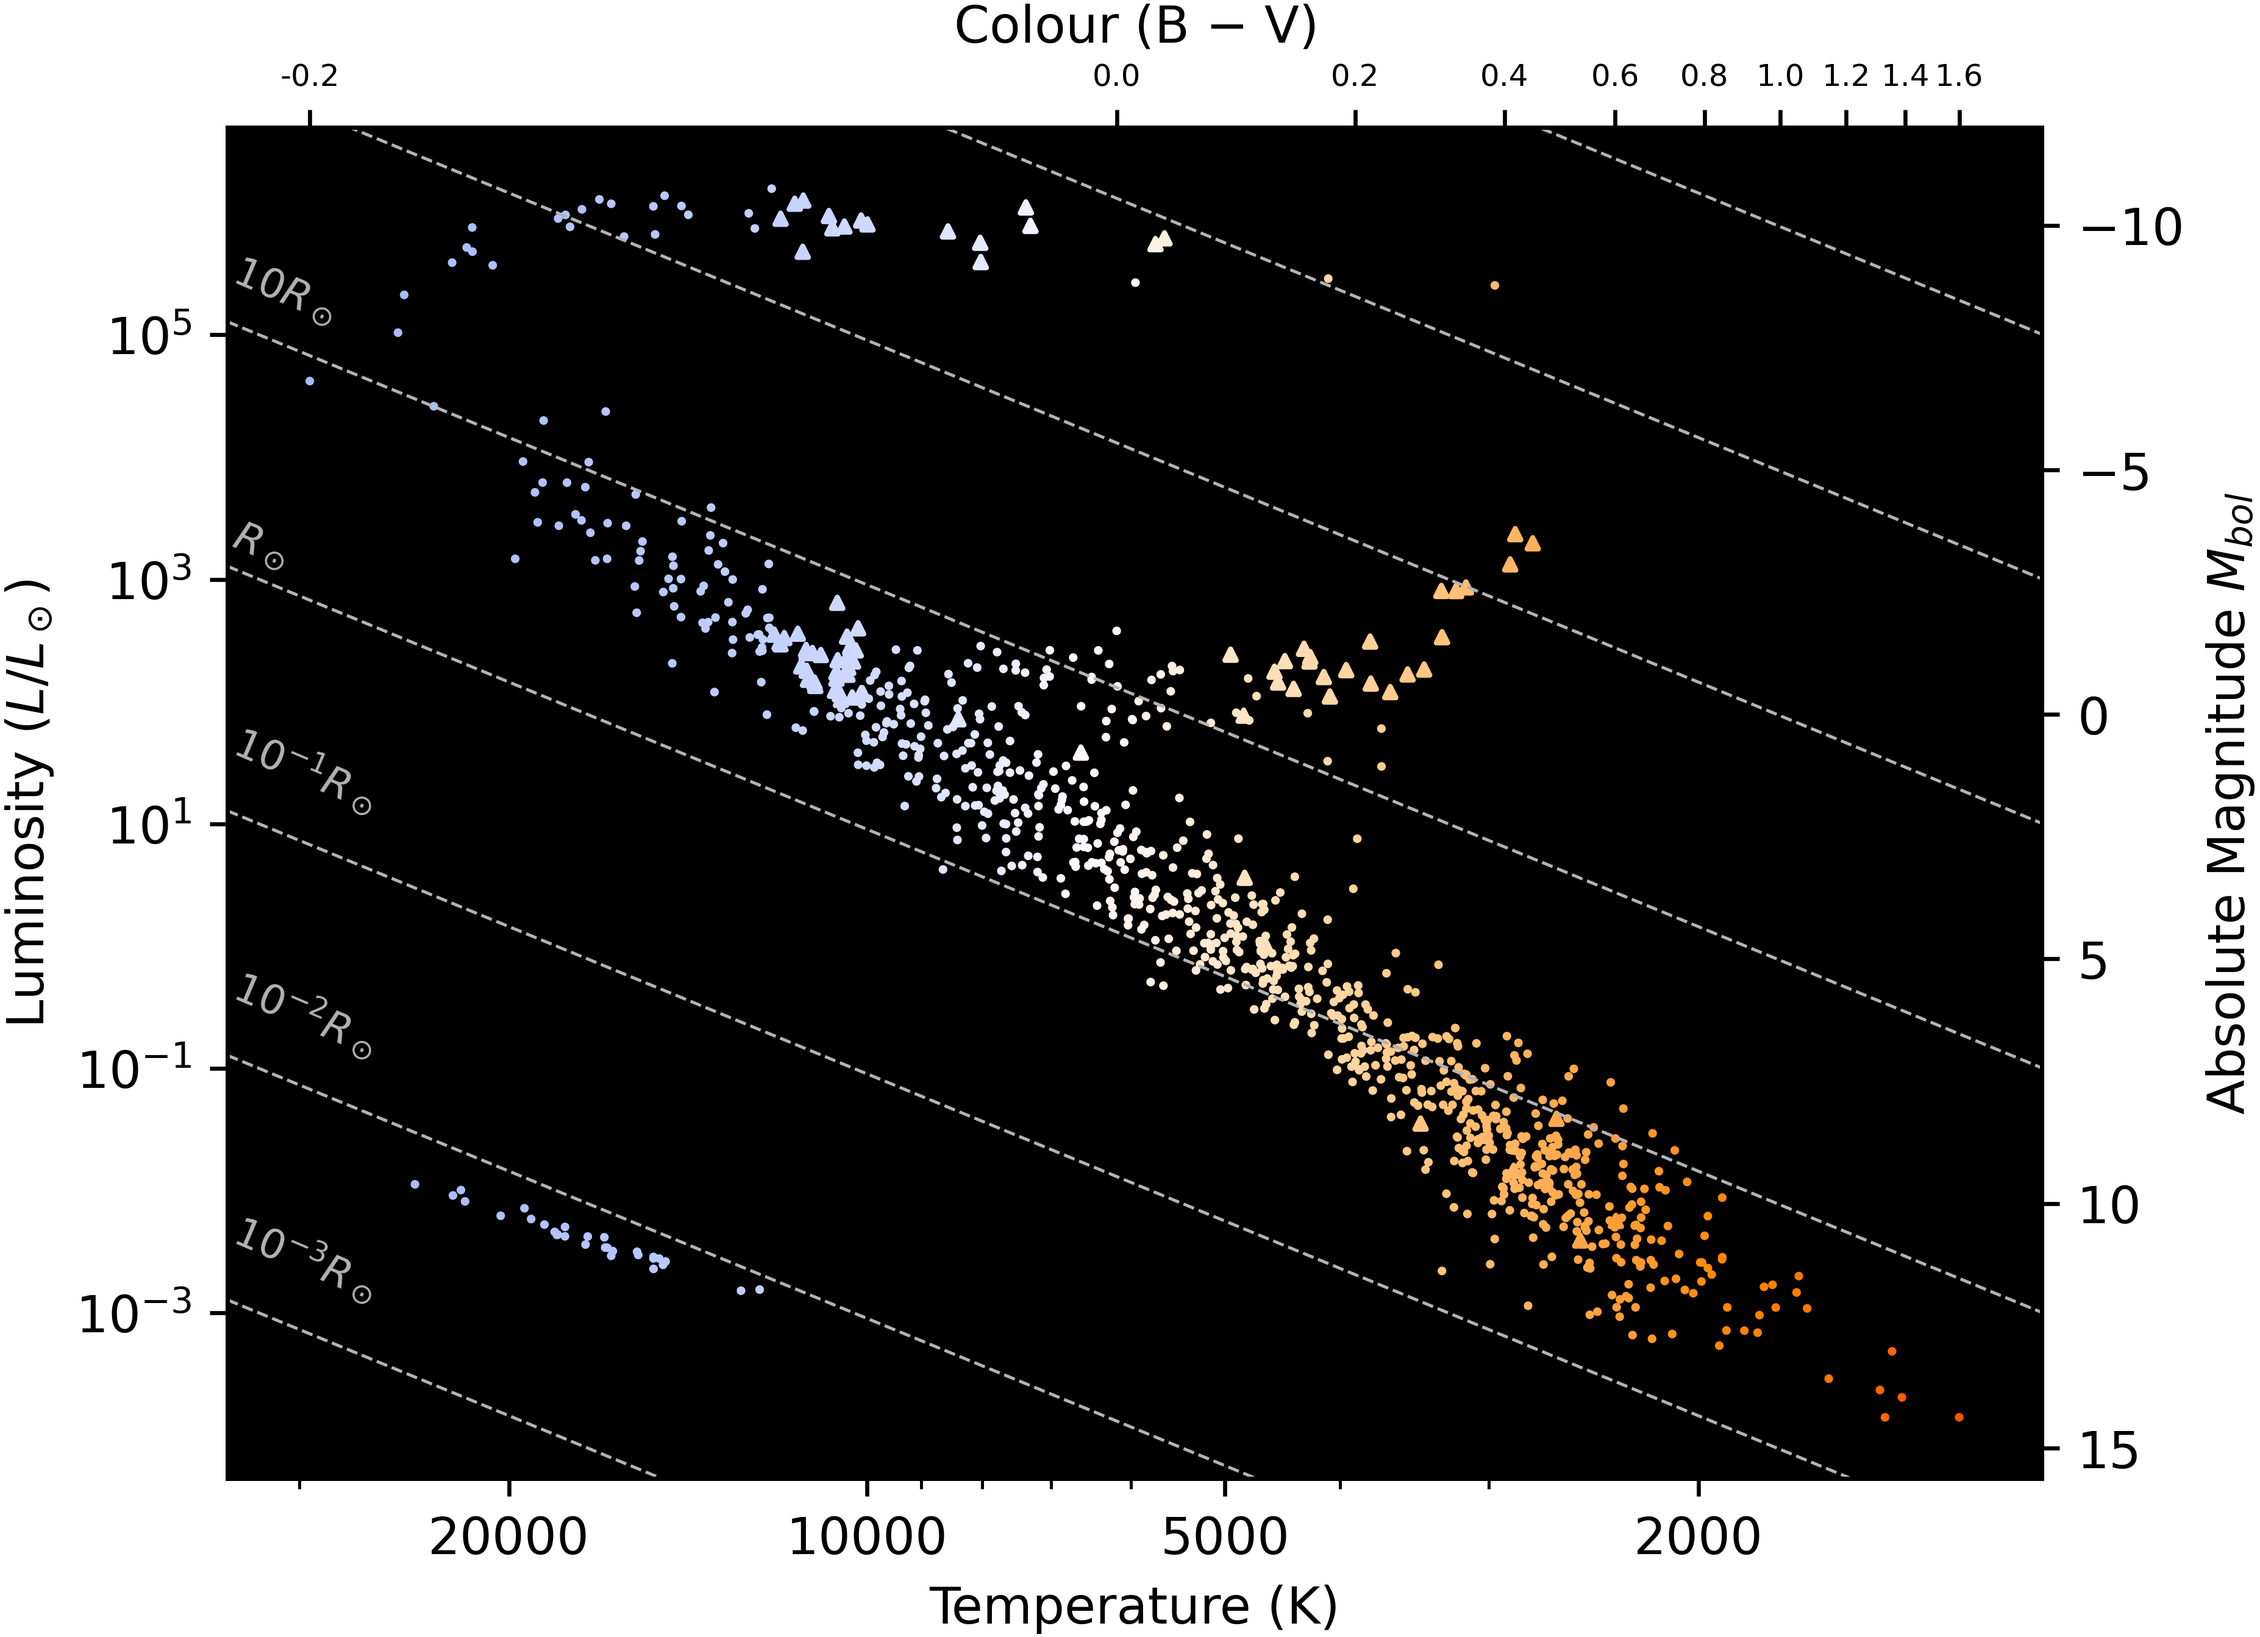
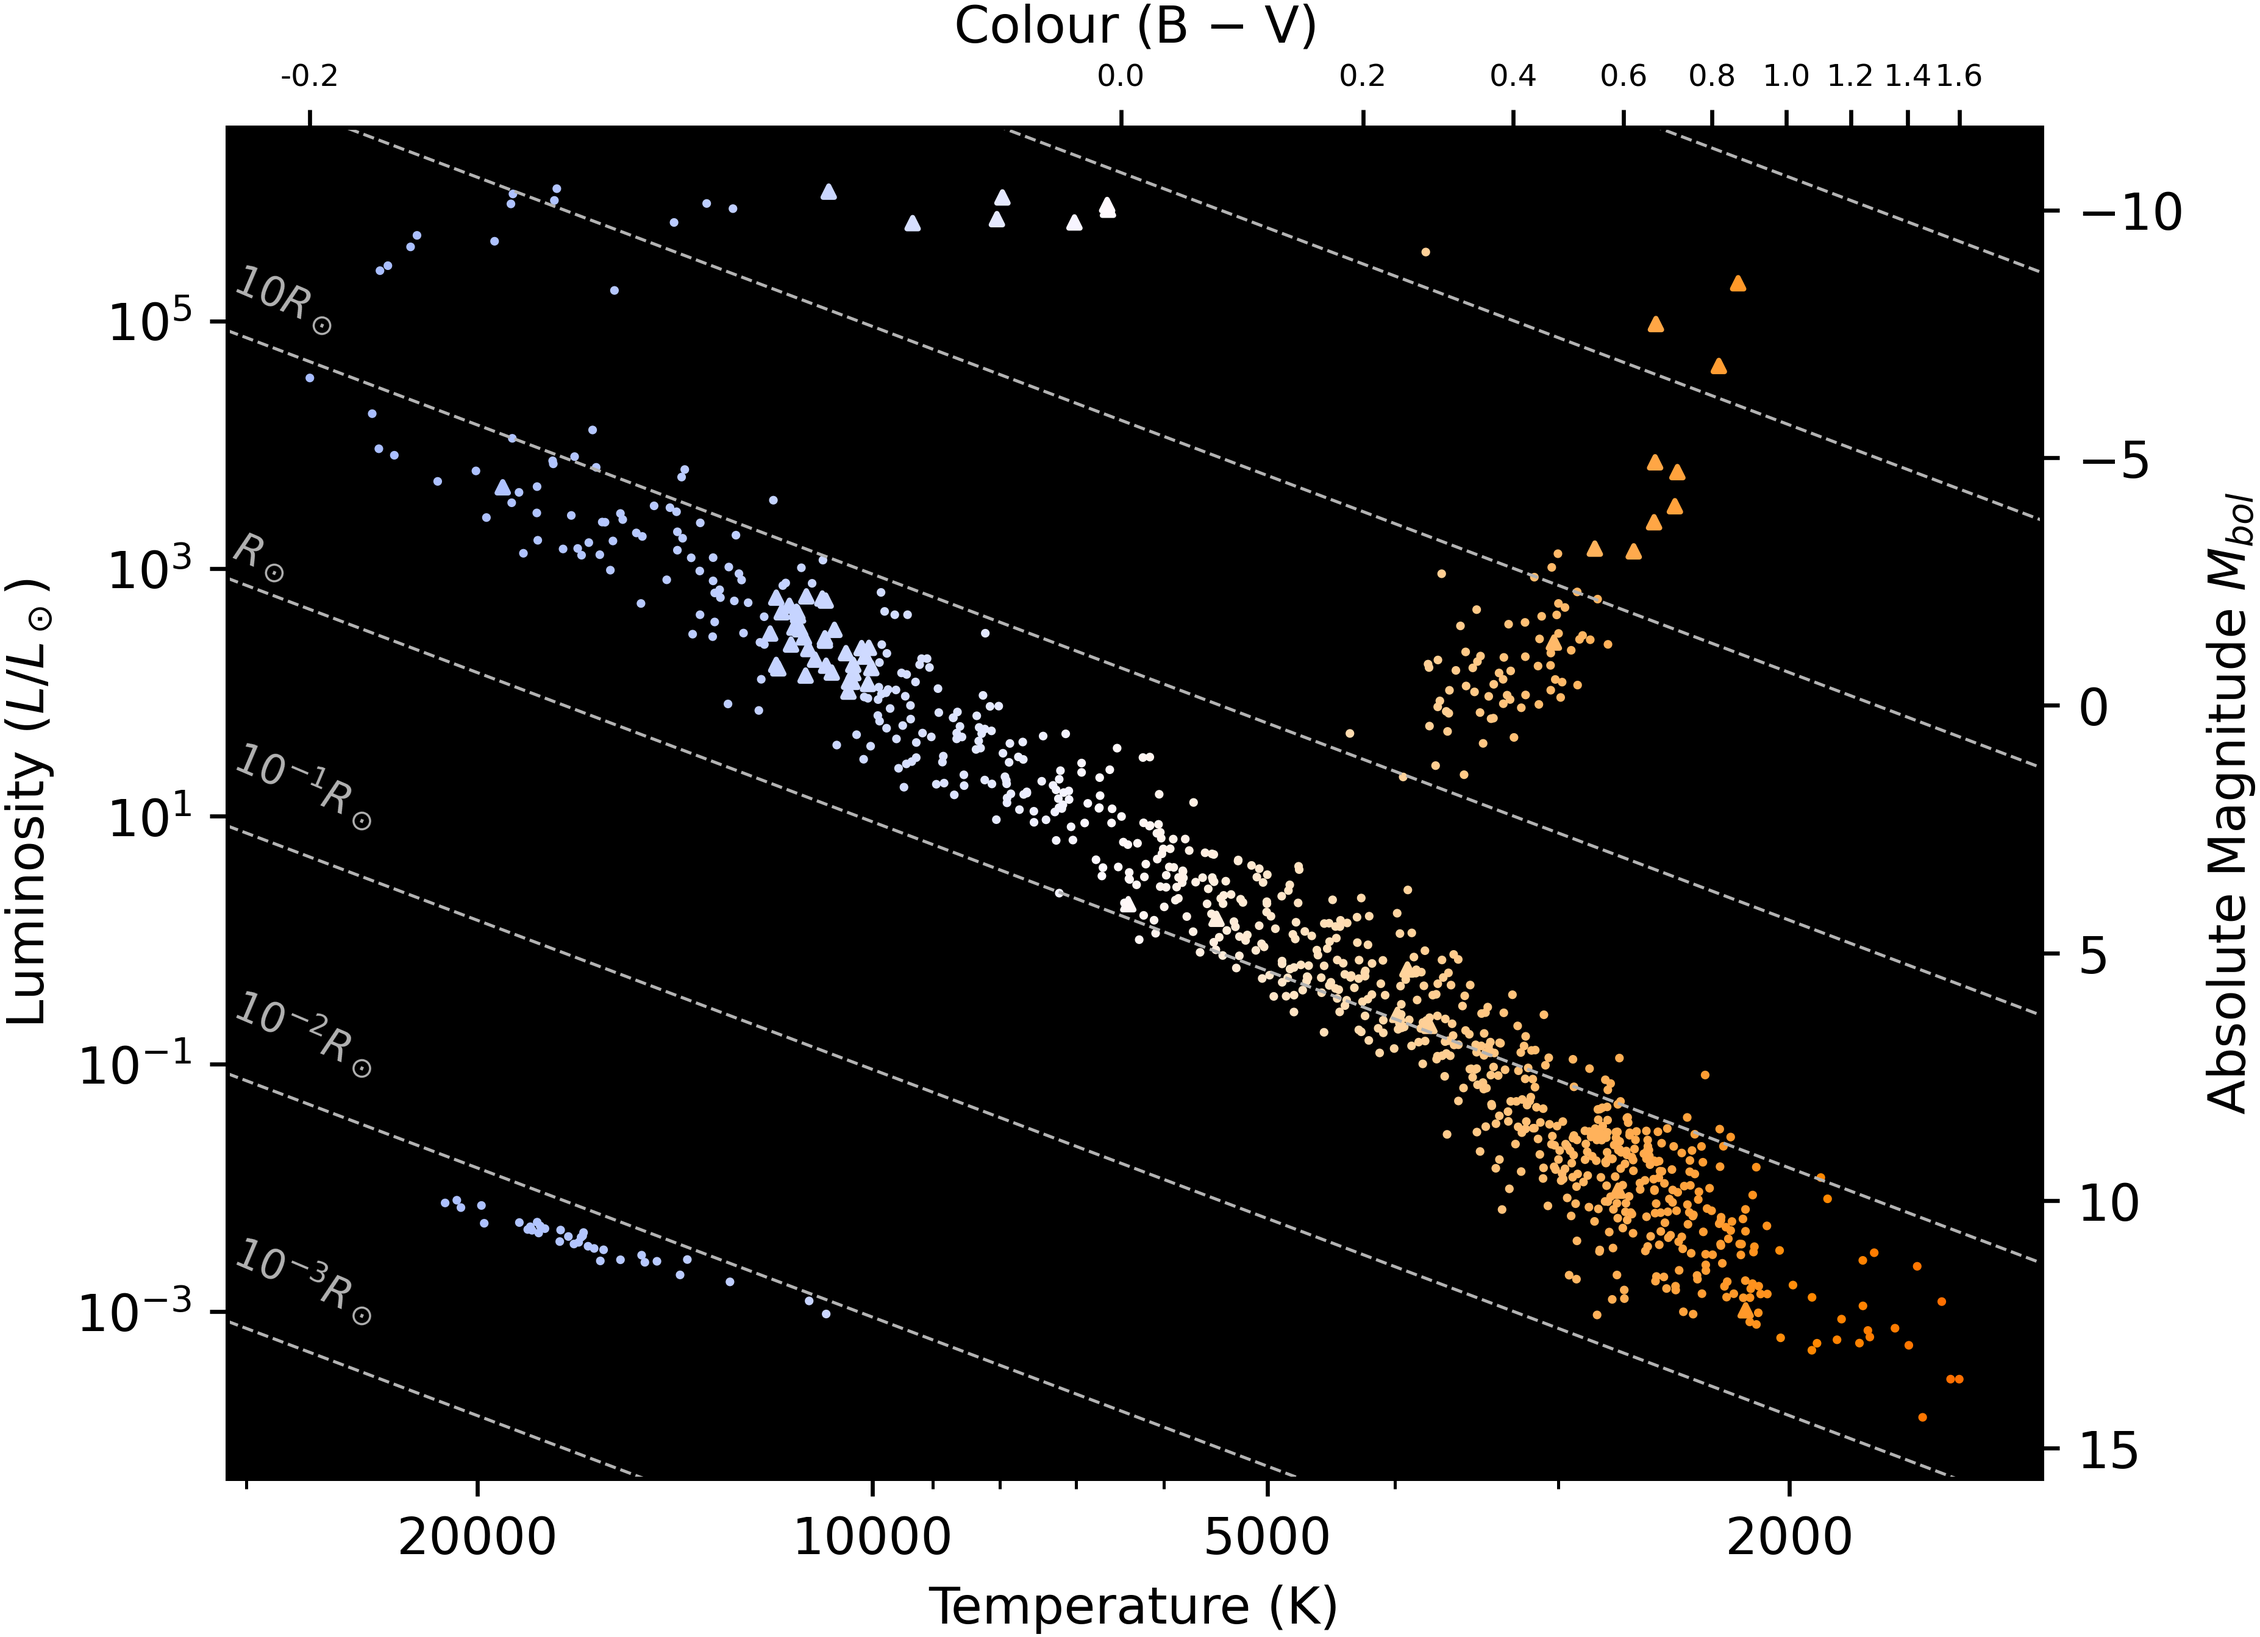
Change dist. of giant stars on HR diag. Fix period-lum issue

diff --git a/Universe.py b/Universe.py
@@ -94,6 +94,7 @@ class Universe(object):
 
             # determine whether to do 2 or 3 variable types
             prob = np.random.uniform(0, 1); types = 2 if prob <= 0.66 else 3
+            types = 3
 
             # randomly determine period of the variables within some allowed range
             shortperiod = np.random.uniform(18, 25)
@@ -133,23 +134,26 @@ class Universe(object):
             
             # we want to find the equation of a line given two points (high lumin and low lumin)
             shortlower = 100; shortupper = 700    # lower and upper luminosity bounds
-            shortperiodL = np.random.uniform(0.92, 0.98); shortperiodU = np.random.uniform(
-                1.1, 1.25)     # proportion of lower and upper period bounds
+            shortperiodL = np.random.uniform(0.92, 0.98); 
+            shortperiodU = np.random.uniform(1.1, 1.25)     # proportion of lower and upper period bounds
             shortgradient = signs[0] * (np.log10(shortupper / shortlower)) / (shortperiod * (shortperiodU - shortperiodL))    # m = rise/run
-            shortyint = np.log10(shortlower) - shortgradient * (shortperiodL * shortperiod)   # y = mx + c => c = y - mx
+            point = shortperiodL if signs[0] > 0 else shortperiodU
+            shortyint = np.log10(shortlower) - shortgradient * (point * shortperiod)   # y = mx + c => c = y - mx
 
             # as above, but for the long and longest variable types
             longlower = 3.5*10**5; longupper = 5 * 10**6
-            longperiodL = np.random.uniform(
-                0.85, 0.95); longperiodU = np.random.uniform(1.05, 1.25)
+            longperiodL = np.random.uniform(0.85, 0.95)
+            longperiodU = np.random.uniform(1.05, 1.25)
             longgradient = signs[1] * np.log10(longupper / longlower) / (longperiod * (longperiodU - longperiodL))
-            longyint = np.log10(longlower) - longgradient * (longperiodL * longperiod)
+            point = longperiodL if signs[1] > 0 else longperiodU
+            longyint = np.log10(longlower) - longgradient * (point * longperiod)
 
-            longestlower = 100; longestupper = 700
-            longestperiodL = np.random.uniform(
-                0.9, 0.98); longestperiodU = np.random.uniform(1.05, 1.25)
+            longestlower = 1e3; longestupper = 1e6
+            longestperiodL = np.random.uniform(0.9, 0.98)
+            longestperiodU = np.random.uniform(1.05, 1.25)
             longestgradient = signs[2] * np.log10(longestupper / longestlower) / (longestperiod * (longestperiodU - longestperiodL))
-            longestyint = np.log10(longestlower) - longestgradient * (longestperiodL * longestperiod)
+            point = longestperiodL if signs[2] > 0 else longestperiodU
+            longestyint = np.log10(longestlower) - longestgradient * (point * longestperiod)
 
             gradients = [shortgradient, longgradient, longestgradient]
             yints = [shortyint, longyint, longestyint]

diff --git a/Star.py b/Star.py
@@ -60,7 +60,7 @@ class Star(object):
                 self.lightcurve = self.generate_variable(variable[2])
                 self.variable = True
                 self.variabletype = ["Long", variable[2][1]]
-            elif len(variable) >= 4 and 100 <= self.luminosity <= 4000 and 2200 <= self.temperature <= 4700:
+            elif len(variable) >= 4 and 1e3 <= self.luminosity <= 1e6 and 2000 <= self.temperature <= 3000:
                 self.lightcurve = self.generate_variable(variable[3])
                 self.variable = True
                 self.variabletype = ["Longest", variable[3][1]]
@@ -157,7 +157,7 @@ class Star(object):
             lumin = 1.4 * mass**3.5
         elif 55 < mass:
             lumin = 3.2 * 10**4 * mass
-        else: ValueError("something is wrong")
+        else: ValueError(f"Star mass unphysically low or high: {mass=}")
         lumin += np.random.normal(0, 0.005 * mass)
         lumin = max(0.23 * 0.04**2.3, lumin)
         return lumin
@@ -327,9 +327,12 @@ class Star(object):
         temp : float
             Temperature of giant star in Kelvin. 
         '''
-        a, b = 4, 1     # gamma distribution parameters
-        temp = 1000 * np.random.gamma(a, b) + 2000
-        return temp * np.random.normal(1, 0.1)
+        # a, b = 4, 1     # gamma distribution parameters
+        # temp = 1000 * np.random.gamma(a, b) + 2000
+        # return temp * np.random.normal(1, 0.1)
+        
+        return np.random.normal(1000, 400) + 2200 #+ np.random.exponential(100)
+        # return 500 * np.random.gamma(1.5, 2) + 2500
 
     def giant_lumin(self, temp):
         ''' Calculate luminosity of giant star based on temperature, with a semi-exponential fit that adds extra luminosity to low mass stars. 
@@ -339,9 +342,16 @@ class Star(object):
         lumin : float
             Luminosity of a giant star in units of Solar luminosities
         '''
-        a, b, c = 10**-7 * 2.857, -0.00343, 10.71
-        add = 10**4.3 * np.exp(a*(temp-4000)**2 + b*temp + c) #what the heck is this (it adds extra luminosity to low temp stars)
-        return (temp + add) * abs(np.random.normal(1, 0.8)) * 0.02
+        # a, b, c = 10**-7 * 2.857, -0.00343, 10.71
+        # add = 10**4.3 * np.exp(a*(temp-4000)**2 + b*temp + c) #what the heck is this (it adds extra luminosity to low temp stars)
+        # return (temp + add) * abs(np.random.normal(1, 0.8)) * 0.02
+        
+        # a, b, c, d = 1.307e8, -131.113, 55.137, 2.431
+        # power = (a / (temp/1000)**b) * (1 / (np.exp(c * temp/1000))) + d
+        # return 10**(power + np.random.normal(0, 0.3)) #* np.random.normal(1, 0.5)
+        
+        power = 347.91 * np.exp(-0.002122 * temp) + 1.8654
+        return 10**(power + np.random.normal(0, 0.3))
     
     def giant_mass(self):
         ''' Randomly generate mass of a giant star. Normally distributed mass centered at 8 solar masses with SD of 3. 

diff --git a/MainSimulationFile.py b/MainSimulationFile.py
@@ -47,7 +47,7 @@ class UniverseSim(object):
     that should be interacted with by the user. 
     '''
     def __init__(self, numclusters, hubble=None, seed=None, blackholes=True, darkmatter=True, mode="Normal",
-                 homogeneous=False, isotropic=True, rotvels="Normal"):
+                 homogeneous=False, isotropic=True, rotvels="Boosted"):
         ''' Generates a Universe object and imports important data from it. 
         Parameters
         ----------
@@ -68,8 +68,8 @@ class UniverseSim(object):
             Whether the local galaxy will 'absorb light from distant galaxies' or not. Makes it so galaxy clusters
             are less likely close to polar = 0 (the galactic plane of the local galaxy)
         rotvels : str
-            One of {"Normal", "Boosted"}, which dictates whether rotation curves have arbitrarily (and unphysically) boosted
-            velocity magnitudes.
+            One of {"Normal", "Boosted"}, which dictates whether rotation curves are normal, or have arbitrarily (and unphysically) 
+            boosted velocity magnitudes.
         '''
         self.seed = seed if seed != None else int(np.random.uniform(0, 9999)) # randomly choose a <=4 digit seed if one isn't given
         np.random.seed(seed)
@@ -929,7 +929,7 @@ def main():
     # sim.save_data()
     
     sim = UniverseSim(100, isotropic=False, rotvels="Boosted")
-    sim.save_data(proj="AllSky", planetNeb=True, radio=False)
+    sim.save_data(proj="AllSky", planetNeb=False, radio=False)
 
     
 if __name__ == "__main__":

diff --git a/Galaxy.py b/Galaxy.py
@@ -785,7 +785,7 @@ class Galaxy(object):
         else:
             ax.scatter(0, 0, s=0)   # plot 'nothing' so that the function works as intended
             
-    def plot_HR(self, isoradii=False, xunit="temp", yunit="BolLum", variable=False, save=False):
+    def plot_HR(self, isoradii=True, xunit="temp", yunit="BolLum", variable=True, save=False):
         '''Plots a Colour-Magnitude (HR) diagram for this galaxy.     
         Parameters
         ----------
